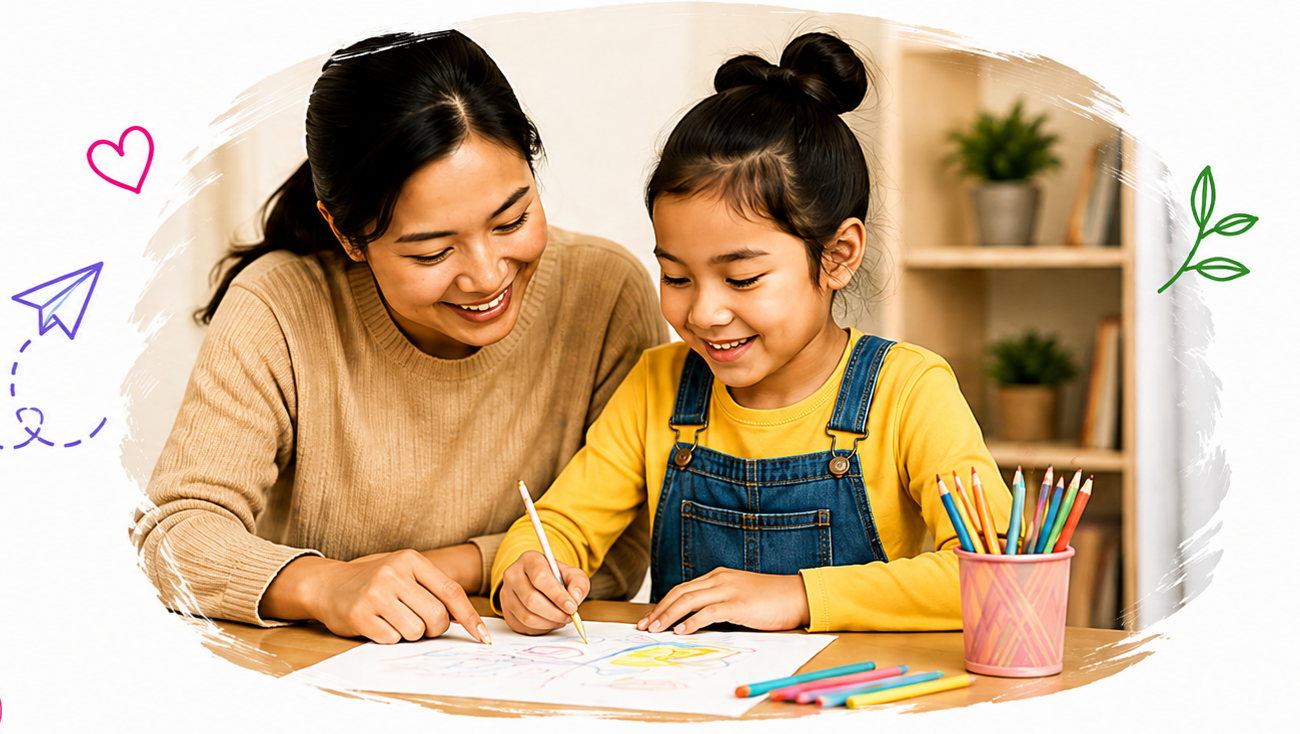
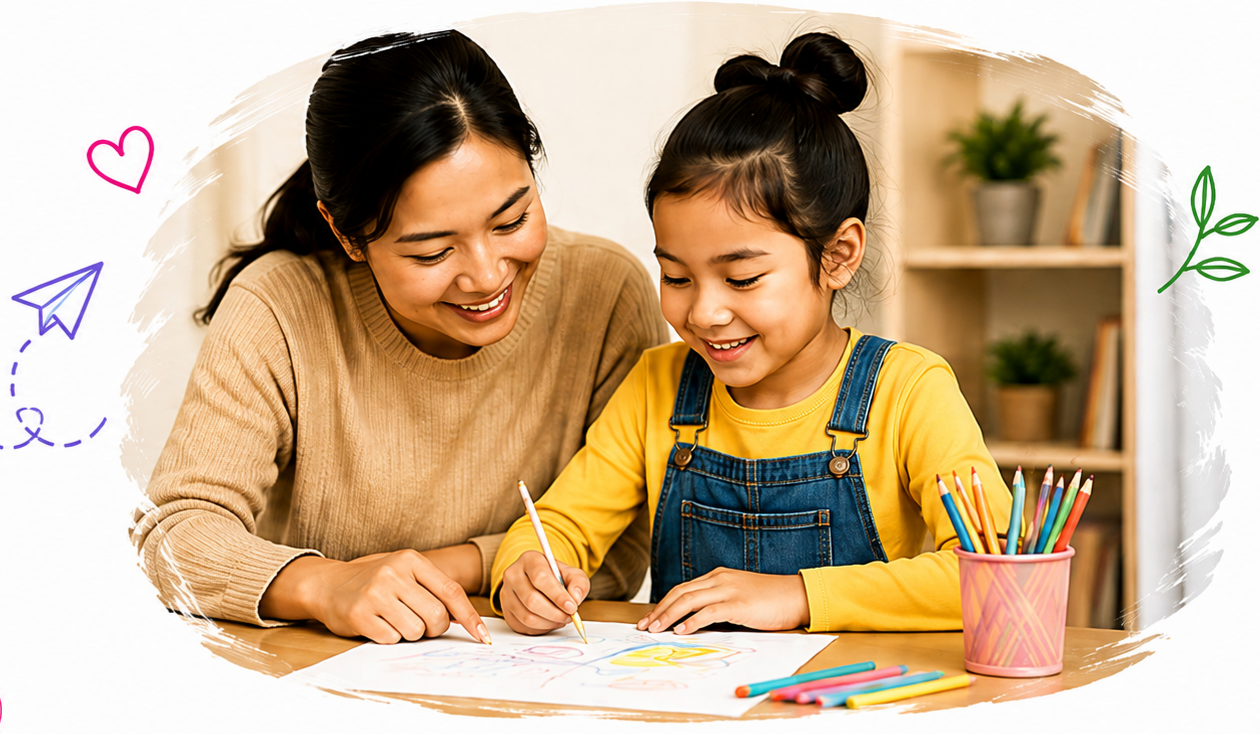
afssadf

diff --git a/assets/css/style.css b/assets/css/style.css
@@ -9864,6 +9864,21 @@ img.lazy-img.loaded {
     max-height: min(420px, 52vh);
     object-fit: contain;
   }
+
+  .our-vision-page .page-hero.vision-hero:not(.partners-hero) .about-hero__banner,
+  .our-vision-page .page-hero.vision-hero:not(.partners-hero) picture img.about-hero__banner,
+  .for-parents-page .page-hero.for-parents-hero .about-hero__banner,
+  .for-parents-page .page-hero.for-parents-hero picture img.about-hero__banner {
+    height: min(610px, 72vh) !important;
+    max-height: min(610px, 72vh) !important;
+    width: auto !important;
+    max-width: 100% !important;
+    object-fit: contain !important;
+    object-position: right center !important;
+    margin-left: auto !important;
+    margin-right: 0 !important;
+    transform: none !important;
+  }
 }
 
 @media (max-width: 1023px) {
@@ -22281,10 +22296,11 @@ body.newsletter-success-open {
   }
 }
 
-/* Our Vision hero — desktop: balanced gap; larger banner, right flush (≥1024px) */
+/* Our Vision + For Parents — desktop: cropped banner, right flush (≥1024px) */
 @media (min-width: 1024px) {
   .page-hero.vision-hero:not(.partners-hero) .page-hero__inner,
-  .our-vision-page .page-hero.vision-hero:not(.partners-hero) .page-hero__inner {
+  .our-vision-page .page-hero.vision-hero:not(.partners-hero) .page-hero__inner,
+  .for-parents-page .page-hero.for-parents-hero .page-hero__inner {
     display: grid !important;
     grid-template-columns: minmax(0, var(--vision-hero-content-col)) minmax(0, var(--vision-hero-media-col)) !important;
     gap: clamp(0.75rem, 1.35vw, 1.35rem) !important;
@@ -22293,13 +22309,16 @@ body.newsletter-success-open {
     justify-content: space-between !important;
   }
 
-  .our-vision-page .page-hero.vision-hero:not(.partners-hero) .page-hero__inner {
+  .our-vision-page .page-hero.vision-hero:not(.partners-hero) .page-hero__inner,
+  .for-parents-page .page-hero.for-parents-hero .page-hero__inner {
     --vision-hero-content-col: 0.46fr;
     --vision-hero-media-col: 0.54fr;
+    grid-template-columns: minmax(0, var(--vision-hero-content-col)) minmax(0, var(--vision-hero-media-col)) !important;
   }
 
   .page-hero.vision-hero:not(.partners-hero) .page-hero__content,
-  .our-vision-page .page-hero.vision-hero:not(.partners-hero) .page-hero__content {
+  .our-vision-page .page-hero.vision-hero:not(.partners-hero) .page-hero__content,
+  .for-parents-page .page-hero.for-parents-hero .page-hero__content {
     width: 100% !important;
     max-width: 520px !important;
     margin-right: 0 !important;
@@ -22310,7 +22329,9 @@ body.newsletter-success-open {
   .page-hero.vision-hero:not(.partners-hero) .about-hero__media,
   .page-hero.vision-hero:not(.partners-hero) .hero-image-wrap,
   .our-vision-page .page-hero.vision-hero:not(.partners-hero) .about-hero__media,
-  .our-vision-page .page-hero.vision-hero:not(.partners-hero) .hero-image-wrap {
+  .our-vision-page .page-hero.vision-hero:not(.partners-hero) .hero-image-wrap,
+  .for-parents-page .page-hero.for-parents-hero .about-hero__media,
+  .for-parents-page .page-hero.for-parents-hero .hero-image-wrap {
     min-width: 0 !important;
     width: 100% !important;
     max-width: 100% !important;
@@ -22330,7 +22351,11 @@ body.newsletter-success-open {
   .our-vision-page .page-hero.vision-hero:not(.partners-hero) .about-hero__media .lazy-img-wrap,
   .our-vision-page .page-hero.vision-hero:not(.partners-hero) .about-hero__media picture,
   .our-vision-page .page-hero.vision-hero:not(.partners-hero) .hero-image-wrap .lazy-img-wrap,
-  .our-vision-page .page-hero.vision-hero:not(.partners-hero) .hero-image-wrap picture {
+  .our-vision-page .page-hero.vision-hero:not(.partners-hero) .hero-image-wrap picture,
+  .for-parents-page .page-hero.for-parents-hero .about-hero__media .lazy-img-wrap,
+  .for-parents-page .page-hero.for-parents-hero .about-hero__media picture,
+  .for-parents-page .page-hero.for-parents-hero .hero-image-wrap .lazy-img-wrap,
+  .for-parents-page .page-hero.for-parents-hero .hero-image-wrap picture {
     display: block !important;
     width: auto !important;
     max-width: 100% !important;
@@ -22342,7 +22367,9 @@ body.newsletter-success-open {
 
   .page-hero.vision-hero:not(.partners-hero) .about-hero__banner,
   .our-vision-page .page-hero.vision-hero:not(.partners-hero) .about-hero__banner,
-  .our-vision-page .page-hero.vision-hero:not(.partners-hero) picture img.about-hero__banner {
+  .our-vision-page .page-hero.vision-hero:not(.partners-hero) picture img.about-hero__banner,
+  .for-parents-page .page-hero.for-parents-hero .about-hero__banner,
+  .for-parents-page .page-hero.for-parents-hero picture img.about-hero__banner {
     display: block !important;
     transform: none !important;
     transform-origin: center right !important;
@@ -22350,7 +22377,7 @@ body.newsletter-success-open {
     object-position: right center !important;
     width: auto !important;
     max-width: 100% !important;
-    height: auto !important;
+    height: min(610px, 72vh) !important;
     max-height: min(610px, 72vh) !important;
     min-height: 0 !important;
     margin-left: auto !important;
@@ -22358,6 +22385,12 @@ body.newsletter-success-open {
     filter: none !important;
     background: transparent !important;
     background-color: transparent !important;
+  }
+
+  .for-parents-page .page-hero.for-parents-hero img.lazy-img.about-hero__banner {
+    width: auto !important;
+    max-width: 100% !important;
+    transform: none !important;
   }
 }
 
@@ -27121,17 +27154,24 @@ body.newsletter-success-open {
   }
 }
 
-/* Our Vision — hero banner: cropped assets align with header right edge (desktop) */
+/* Cropped hero banners — Our Vision + For Parents (desktop, wins over shared hero caps) */
 @media (min-width: 1024px) {
   .our-vision-page #main-content > section.page-hero.vision-hero:not(.partners-hero) .page-hero__inner,
-  .our-vision-page .page-hero.vision-hero:not(.partners-hero) .page-hero__inner {
+  .our-vision-page .page-hero.vision-hero:not(.partners-hero) .page-hero__inner,
+  .for-parents-page #main-content > section.page-hero.for-parents-hero .page-hero__inner,
+  .for-parents-page .page-hero.for-parents-hero .page-hero__inner {
     align-items: center !important;
+    gap: clamp(0.75rem, 1.35vw, 1.35rem) !important;
   }
 
   .our-vision-page #main-content > section.page-hero.vision-hero:not(.partners-hero) .about-hero__media,
   .our-vision-page #main-content > section.page-hero.vision-hero:not(.partners-hero) .hero-image-wrap,
   .our-vision-page .page-hero.vision-hero:not(.partners-hero) .about-hero__media,
-  .our-vision-page .page-hero.vision-hero:not(.partners-hero) .hero-image-wrap {
+  .our-vision-page .page-hero.vision-hero:not(.partners-hero) .hero-image-wrap,
+  .for-parents-page #main-content > section.page-hero.for-parents-hero .about-hero__media,
+  .for-parents-page #main-content > section.page-hero.for-parents-hero .hero-image-wrap,
+  .for-parents-page .page-hero.for-parents-hero .about-hero__media,
+  .for-parents-page .page-hero.for-parents-hero .hero-image-wrap {
     justify-content: flex-end !important;
     align-items: center !important;
   }
@@ -27139,14 +27179,20 @@ body.newsletter-success-open {
   .our-vision-page #main-content > section.page-hero.vision-hero:not(.partners-hero) .about-hero__banner,
   .our-vision-page #main-content > section.page-hero.vision-hero:not(.partners-hero) picture img.about-hero__banner,
   .our-vision-page .page-hero.vision-hero:not(.partners-hero) .about-hero__banner,
-  .our-vision-page .page-hero.vision-hero:not(.partners-hero) picture img.about-hero__banner {
+  .our-vision-page .page-hero.vision-hero:not(.partners-hero) picture img.about-hero__banner,
+  .for-parents-page #main-content > section.page-hero.for-parents-hero .about-hero__banner,
+  .for-parents-page #main-content > section.page-hero.for-parents-hero picture img.about-hero__banner,
+  .for-parents-page .page-hero.for-parents-hero .about-hero__banner,
+  .for-parents-page .page-hero.for-parents-hero picture img.about-hero__banner {
     width: auto !important;
     max-width: 100% !important;
+    height: min(610px, 72vh) !important;
     max-height: min(610px, 72vh) !important;
     object-fit: contain !important;
     object-position: right center !important;
     margin-left: auto !important;
     margin-right: 0 !important;
+    transform: none !important;
   }
 }
 

diff --git a/page-for-parents.php b/page-for-parents.php
@@ -82,11 +82,19 @@ $for_parents_hero_secondary_btn_link = bdc_get_acf_link(
 	),
 	$for_parents_page_id
 );
-$for_parents_hero_banner_url = bdc_get_acf_image_url(
+$for_parents_hero_banner_theme_path = 'assets/images/for-parents-hero-banner.png';
+$for_parents_hero_banner_default_url = bdc_theme_asset_url( $for_parents_hero_banner_theme_path );
+$for_parents_hero_banner_url         = bdc_get_acf_image_url(
 	'for_parents_hero_banner',
-	bdc_theme_asset_url( 'assets/images/for-parents-hero-banner.png' ),
+	$for_parents_hero_banner_default_url,
 	$for_parents_page_id
 );
+if ( $for_parents_hero_banner_url === $for_parents_hero_banner_default_url ) {
+	$for_parents_hero_banner_ver = bdc_asset_version( $for_parents_hero_banner_theme_path );
+	if ( $for_parents_hero_banner_ver ) {
+		$for_parents_hero_banner_url = add_query_arg( 'v', $for_parents_hero_banner_ver, $for_parents_hero_banner_url );
+	}
+}
 $for_parents_hero_banner_alt = bdc_get_acf_text(
 	'for_parents_hero_banner_alt',
 	'A mother and daughter drawing together at a table with colored pencils',
